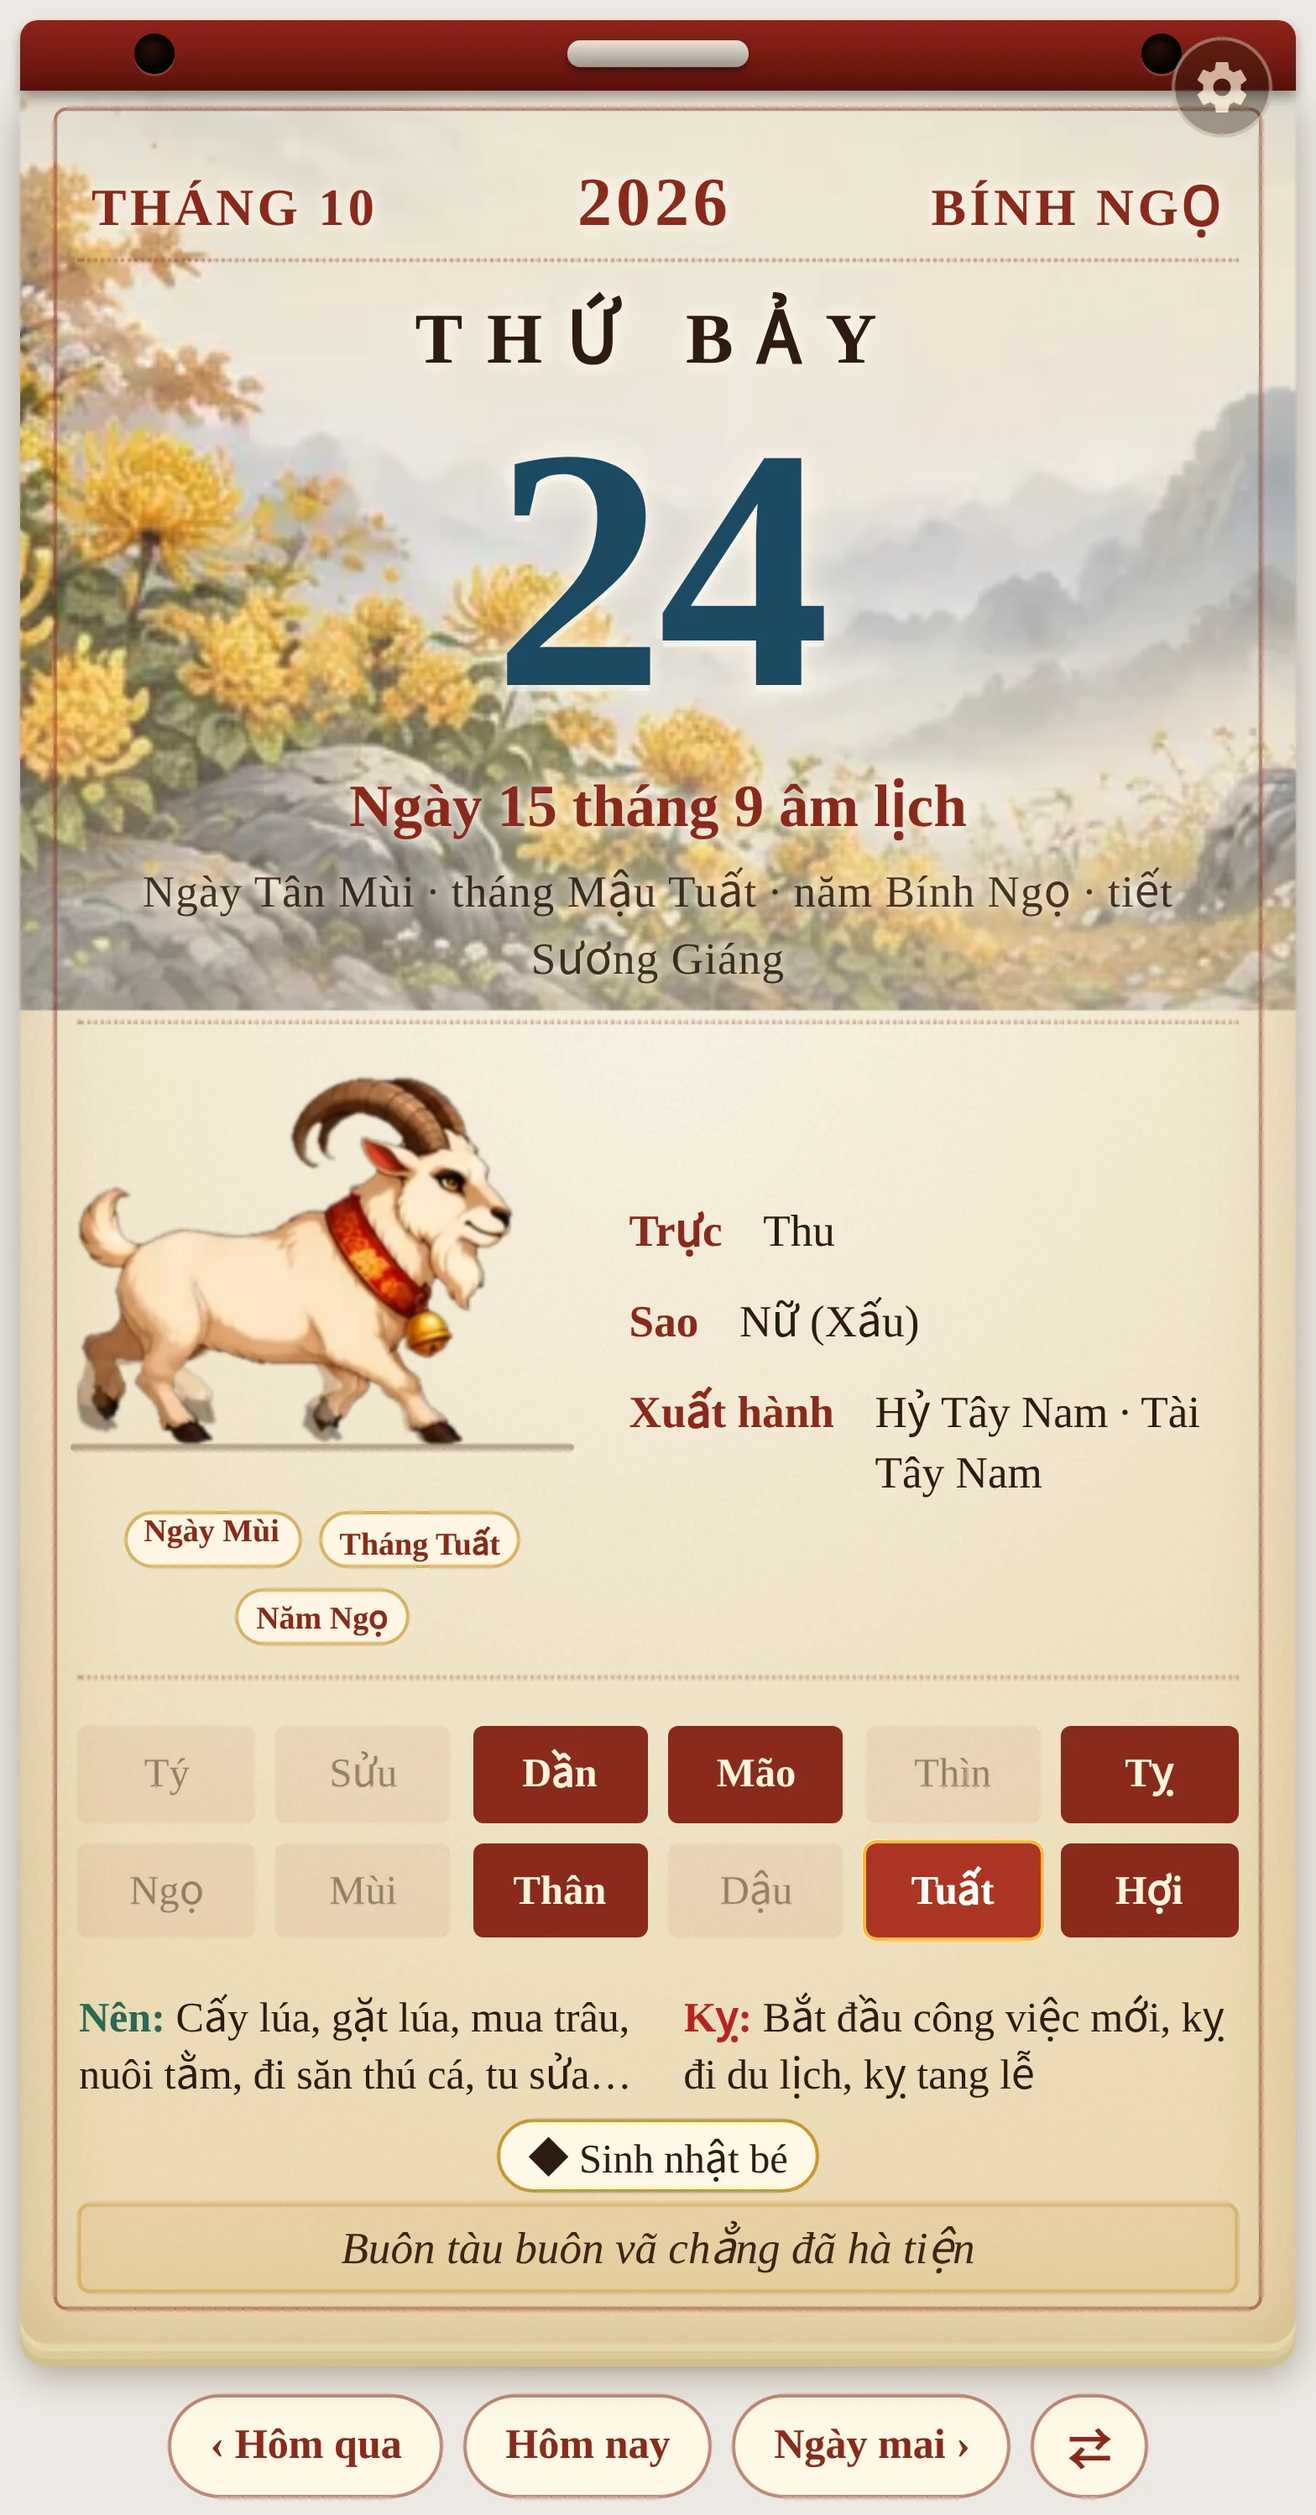
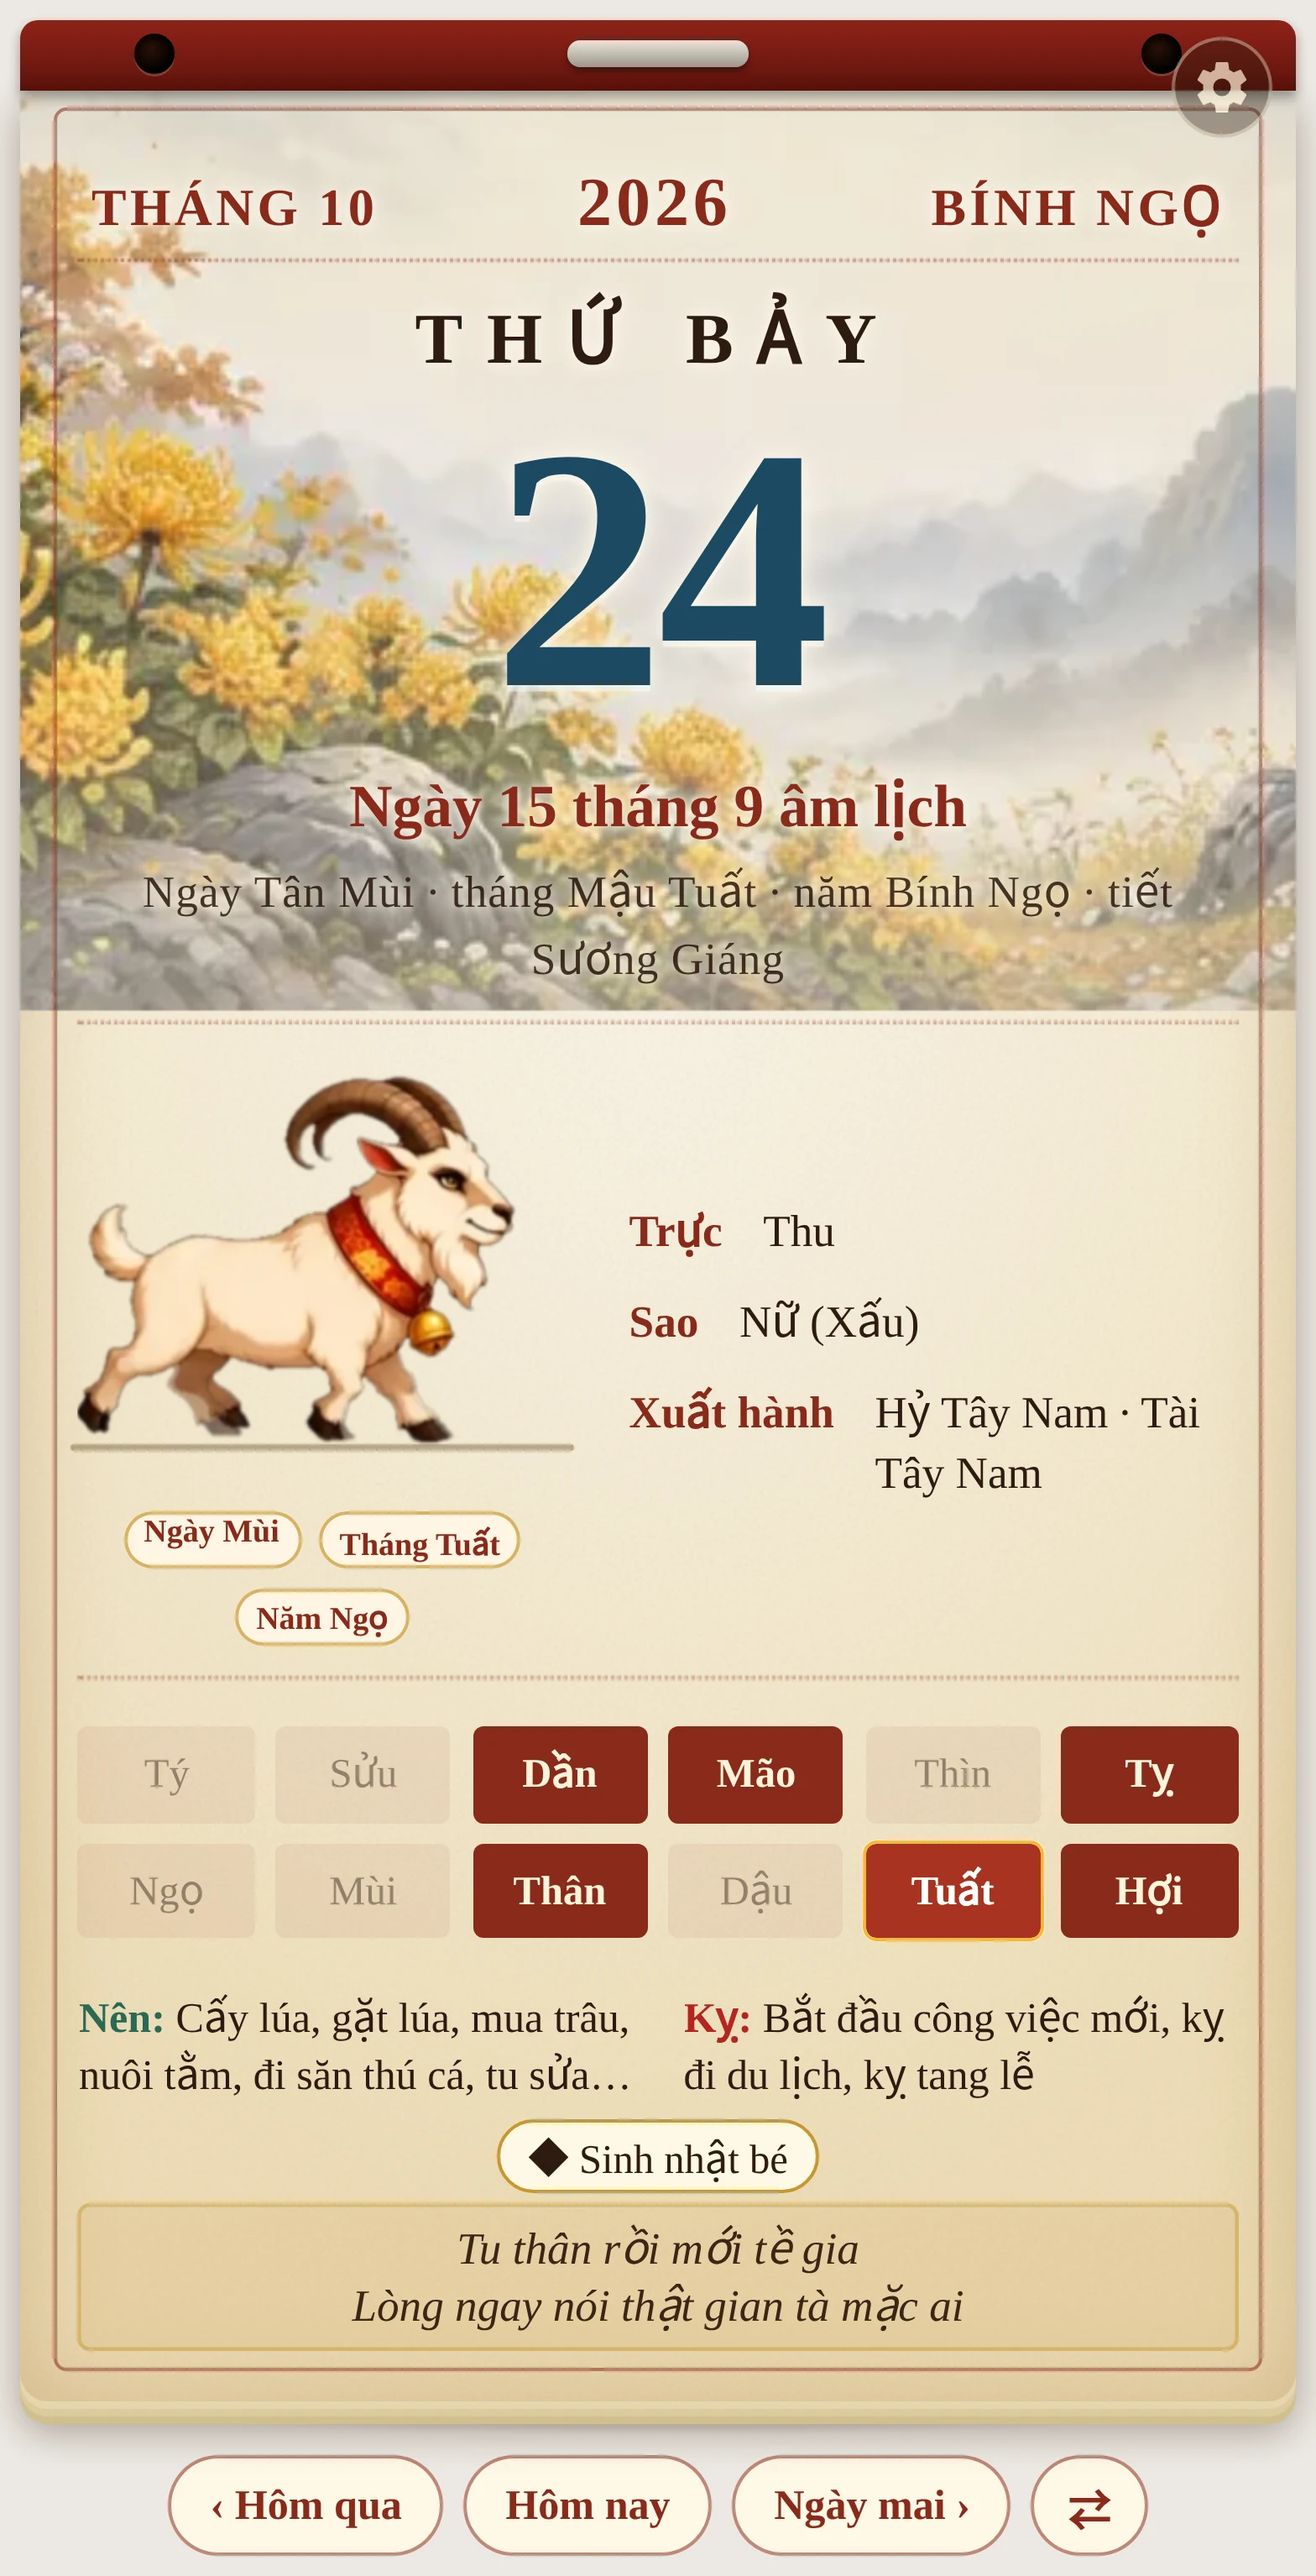
Hoạt họa con vật chạy hoàn toàn trên luồng ghép hình, một chu kỳ chung cho tư thế và mờ chuyển (1.2.1)
Chủ máy: «giờ trông giật đùng đùng như kiểu chuyển tiếp động tác không mượt». Phép đo 60 khung/giây trước đó điều khiển đồng hồ từng khung nên không thấy được lệch nhịp
giữa các luồng. Thiết kế cũ: tư thế đổi bằng background-position (luồng chính) còn mờ chuyển bằng opacity (luồng ghép hình) với HAI đồng hồ riêng; lệch vài ms là thoáng hiện nhầm
tư thế ở độ đậm đầy đủ. Luồng chính còn bị vẽ lại mỗi bước.

- Mỗi lớp là một «cửa sổ» (overflow:hidden) chứa dải sprite; tư thế đổi bằng transform (step-end), mờ chuyển bằng opacity răng cưa 16 nhịp: cả hai cùng thời lượng --sd
  nên khớp tuyệt đối; bỏ hẳn --ft.
- Đo bằng vết hiệu năng Chrome trong 2 giây hoạt họa: bản cũ Paint 135 / UpdateLayoutTree 122 / PrePaint 121; bản mới Paint 0 / UpdateLayoutTree 4 / PrePaint 2.
- Demo: thư viện 12 con dùng chung hinhThu của thẻ. Test: giữ thiết kế (transform, cùng --sd, không có --ft).

Claude-Session: https://claude.ai/code/session_01RuPofRMvzvZPPPoDv3dRha

diff --git a/custom_components/lich_viet/frontend/lich-bloc-xua-card.js b/custom_components/lich_viet/frontend/lich-bloc-xua-card.js
@@ -62,26 +62,30 @@ const gioHienTai = (gio, now) => { const h = now.getHours(); return gio.find((g)
 // ---------- hình con giáp: sprite WebP (nếu có), không thì bộ vector dự phòng ----------
 let _uid = 0;
 const KHUNG_BUOC = 16;   // khung 0–15 của sheet là chu kỳ bước; 16–17 là đứng nghỉ
-const viTri = (j, cot, hang) => `${cot > 1 ? (j % cot * 100 / (cot - 1)).toFixed(2) : 0}% ${hang > 1 ? (Math.floor(j / cot) * 100 / (hang - 1)).toFixed(2) : 0}%`;
+// Tư thế đổi bằng transform của dải sprite trong một «cửa sổ» (không dùng background-position vì nó chạy trên luồng chính, còn mờ chuyển opacity chạy trên luồng ghép hình:
+// hai đồng hồ riêng lệch vài mili giây là thoáng hiện nhầm tư thế ở độ đậm đầy đủ, nghe như «đùng»). transform + opacity cùng ở luồng ghép hình và cùng MỘT chu kỳ.
+const viDich = (j, cot, hang) => `translate(${(-(j % cot) * 100 / cot).toFixed(4)}%,${(-Math.floor(j / cot) * 100 / hang).toFixed(4)}%)`;
 function keyframesSprite(ten, cot, hang, dich = 0) {
   let s = `@keyframes ${ten}{`;
-  for (let i = 0; i < KHUNG_BUOC; i++) s += `${(i * 100 / KHUNG_BUOC).toFixed(3)}%{background-position:${viTri((i + dich) % KHUNG_BUOC, cot, hang)}}`;
+  for (let i = 0; i < KHUNG_BUOC; i++) s += `${(i * 100 / KHUNG_BUOC).toFixed(4)}%{transform:${viDich((i + dich) % KHUNG_BUOC, cot, hang)}}`;
   return s + "}";
 }
+// răng cưa mờ chuyển: mỗi khung opacity 0→1 tuyến tính rồi về 0 ngay lúc đổi tư thế; cùng thời lượng với bước nhảy nên khớp tuyệt đối
+const RANG_CUA = (() => { let r = "@keyframes spx-ramp{"; for (let i = 0; i < KHUNG_BUOC; i++) r += `${(i * 100 / KHUNG_BUOC).toFixed(4)}%{opacity:0}${((i + 1) * 100 / KHUNG_BUOC - 0.0005).toFixed(4)}%{opacity:1}`; return r + "100%{opacity:0}}"; })();
 const SPRITE_CSS = Object.entries(THU_ANH).map(([k, v]) => keyframesSprite("sp-" + k, v.cot, v.hang) + keyframesSprite("spn-" + k, v.cot, v.hang, 1)).join("\n") + `
 .spx{position:relative;display:block;width:100%}
-.spx>i{position:absolute;inset:0;background-image:var(--bg);background-size:var(--bs);background-repeat:no-repeat;background-position:var(--p4)}
-.spx>i.b{opacity:0;background-position:var(--p5);animation:spx-tho 4.6s ease-in-out infinite}
-.spx.chay>i.a{animation:var(--spa) var(--sd) step-end infinite}
-.spx.chay>i.b{opacity:0;animation:var(--spb) var(--sd) step-end infinite,spx-ramp var(--ft) linear infinite}   /* đang bước: tư thế kế tiếp mờ vào ở nửa sau mỗi khung */
-.dung .spx>i,.spx.dung>i{animation-play-state:paused}
+.spx .vo{position:absolute;inset:0;overflow:hidden}
+.spx .vo>i{position:absolute;left:0;top:0;width:var(--cw);height:var(--ch);background:var(--bg) 0 0/100% 100% no-repeat;will-change:transform;transform:var(--t16)}
+.spx .vo.b{opacity:0;will-change:opacity;animation:spx-tho 4.6s ease-in-out infinite}
+.spx .vo.b>i{transform:var(--t17)}
+.spx.chay .vo.a>i{animation:var(--spa) var(--sd) step-end infinite}
+.spx.chay .vo.b{opacity:0;animation:spx-ramp var(--sd) linear infinite}   /* đang bước: tư thế kế tiếp mờ vào suốt mỗi khung */
+.spx.chay .vo.b>i{animation:var(--spb) var(--sd) step-end infinite}
+.dung .spx .vo,.dung .spx .vo>i,.spx.dung .vo,.spx.dung .vo>i{animation-play-state:paused}
 @keyframes spx-tho{0%,100%{opacity:0}50%{opacity:1}}
-@keyframes spx-ramp{0%{opacity:0}100%{opacity:1}}
-.sp:not(.chay){animation:sp-tho 4.4s ease-in-out infinite;transform-origin:50% 100%}
-.sp{display:block;width:100%;background-repeat:no-repeat;background-position:0 0;image-rendering:auto}
-.sp.chay{animation-name:var(--sp);animation-duration:var(--sd);animation-iteration-count:infinite;animation-timing-function:step-end}
+${RANG_CUA}
 .thu-hop{position:relative;width:100%}
-.thu-hop.dung .sp,.dung .sp{animation-play-state:paused}
+.thu-hop.dung{animation-play-state:paused}
 `;
 const spriteCache = new Map(); // khoa -> Promise<{rong, cao} | null>
 function dongSprite(khoa) {
@@ -101,7 +105,7 @@ async function hinhThu(khoa, chay, heSo = 1) {
   if (sp) {
     const c = THU_ANH[khoa], n = KHUNG_BUOC;
     const fk = c.fps * Math.min(4, Math.max(0.25, +heSo > 0 ? +heSo : 1));   // toc_do giới hạn 0,25–4
-    return `<div class="spx${chay ? " chay" : ""}" data-fps="${c.fps}" style="aspect-ratio:${sp.rong}/${sp.cao};--bg:url('${GOC}${khoa}.webp');--bs:${c.cot * 100}% ${c.hang * 100}%;--sd:${(n / fk).toFixed(3)}s;--ft:${(1 / fk).toFixed(3)}s;--spa:sp-${khoa};--spb:spn-${khoa};--p4:${viTri(KHUNG_BUOC, c.cot, c.hang)};--p5:${viTri(KHUNG_BUOC + 1, c.cot, c.hang)}" role="img" aria-label="${esc(TEN_THU[khoa] || "")}"><i class="a"></i><i class="b"></i></div>`;
+    return `<div class="spx${chay ? " chay" : ""}" data-fps="${c.fps}" style="aspect-ratio:${sp.rong}/${sp.cao};--bg:url('${GOC}${khoa}.webp');--cw:${c.cot * 100}%;--ch:${c.hang * 100}%;--sd:${(n / fk).toFixed(5)}s;--spa:sp-${khoa};--spb:spn-${khoa};--t16:${viDich(KHUNG_BUOC, c.cot, c.hang)};--t17:${viDich(KHUNG_BUOC + 1, c.cot, c.hang)}" role="img" aria-label="${esc(TEN_THU[khoa] || "")}"><div class="vo a"><i></i></div><div class="vo b"><i></i></div></div>`;
   }
   return `<div class="thu ${chay ? "di" : "nghi"}">${veConGiap(khoa, "u" + ++_uid)}</div>`;
 }
@@ -314,7 +318,7 @@ class LichBlocXuaCard extends HTMLElement {
     dat();
     const apToc = () => R.querySelectorAll(".spx").forEach((e) => {
       const fk = (+e.dataset.fps || 1) * Math.min(4, Math.max(0.25, +this._cai("toc_do") > 0 ? +this._cai("toc_do") : 1));
-      e.style.setProperty("--sd", (KHUNG_BUOC / fk).toFixed(3) + "s"); e.style.setProperty("--ft", (1 / fk).toFixed(3) + "s");
+      e.style.setProperty("--sd", (KHUNG_BUOC / fk).toFixed(5) + "s");
     });
     banh.addEventListener("click", (e) => { e.stopPropagation(); panel.hidden = !panel.hidden; banh.classList.toggle("mo", !panel.hidden); });
     panel.addEventListener("pointerdown", (e) => e.stopPropagation());
@@ -328,7 +332,7 @@ class LichBlocXuaCard extends HTMLElement {
   _capNhatChay() {
     const chay = this._hien && !document.hidden && this._cfg.hoat_hoa !== false;
     this._banEl?.classList.toggle("chay-on", chay);
-    this.shadowRoot.querySelectorAll(".thu,.thu-hop,.sp,.spx").forEach((e) => e.classList.toggle("dung", !chay));
+    this.shadowRoot.querySelectorAll(".thu,.thu-hop,.spx").forEach((e) => e.classList.toggle("dung", !chay));
   }
   _kiemTraNgay() {
     const now = new Date();
@@ -347,7 +351,7 @@ class LichBlocXuaCard extends HTMLElement {
     const ng = this._cai("nghi_giay"), nghiMs = (ng === 0 || ng === "0" ? 0 : +ng > 0 ? +ng : 25) * 1000;   // nghỉ bao lâu rồi chạy lại; 0 = chạy liên tục
     const doi = (chay) => {
       this._chayThu = chay; this._banEl?.classList.toggle("dang-chay", chay);
-      this.shadowRoot.querySelectorAll(".sp,.spx").forEach((e) => e.classList.toggle("chay", chay));
+      this.shadowRoot.querySelectorAll(".spx").forEach((e) => e.classList.toggle("chay", chay));
       this.shadowRoot.querySelectorAll(".thu").forEach((e) => { e.classList.toggle("di", chay); e.classList.toggle("nghi", !chay); });
       if (!nghiMs) return;   // không nghỉ: cứ chạy mãi
       this._thuTimer = setTimeout(() => doi(!chay), (chay ? chayMs : nghiMs) * (0.9 + Math.random() * 0.2));

diff --git a/tests/test_cau_truc.py b/tests/test_cau_truc.py
@@ -65,3 +65,14 @@ def test_tuy_chon_chuyen_dong_co_trong_the_va_readme(khoa):
     assert khoa in the and f"{khoa}:" in readme
     if khoa != "cai_dat":
         assert f'data-k="{khoa}"' in the or f"data-k=\"${{k}}\"" in the or f'"{khoa}"' in the
+
+
+def test_hoat_hoa_con_vat_chay_tren_luong_ghep_hinh_va_cung_mot_chu_ky():
+    """Thiết kế giữ cho chuyển động mượt trên điện thoại (đo bằng vết hiệu năng Chrome, 2 giây hoạt họa: bản dùng background-position vẽ lại 135 lần ở luồng chính,
+    bản transform + opacity 0 lần): tư thế đổi bằng transform, mờ chuyển bằng opacity, cả hai CÙNG thời lượng (--sd) nên không thể lệch nhịp."""
+    the = (GOC / "frontend" / "lich-bloc-xua-card.js").read_text(encoding="utf-8")
+    khung = the[the.index("function keyframesSprite"):the.index("const SPRITE_CSS")]
+    assert "transform:" in khung and "background-position" not in khung
+    css = the[the.index("const SPRITE_CSS"):the.index(".thu-hop{position:relative")]
+    assert ".spx.chay .vo.b{opacity:0;animation:spx-ramp var(--sd) linear infinite}" in css and "step-end infinite" in css
+    assert "--ft" not in the, "mờ chuyển phải dùng chung --sd với bước đổi tư thế, không có đồng hồ riêng"
